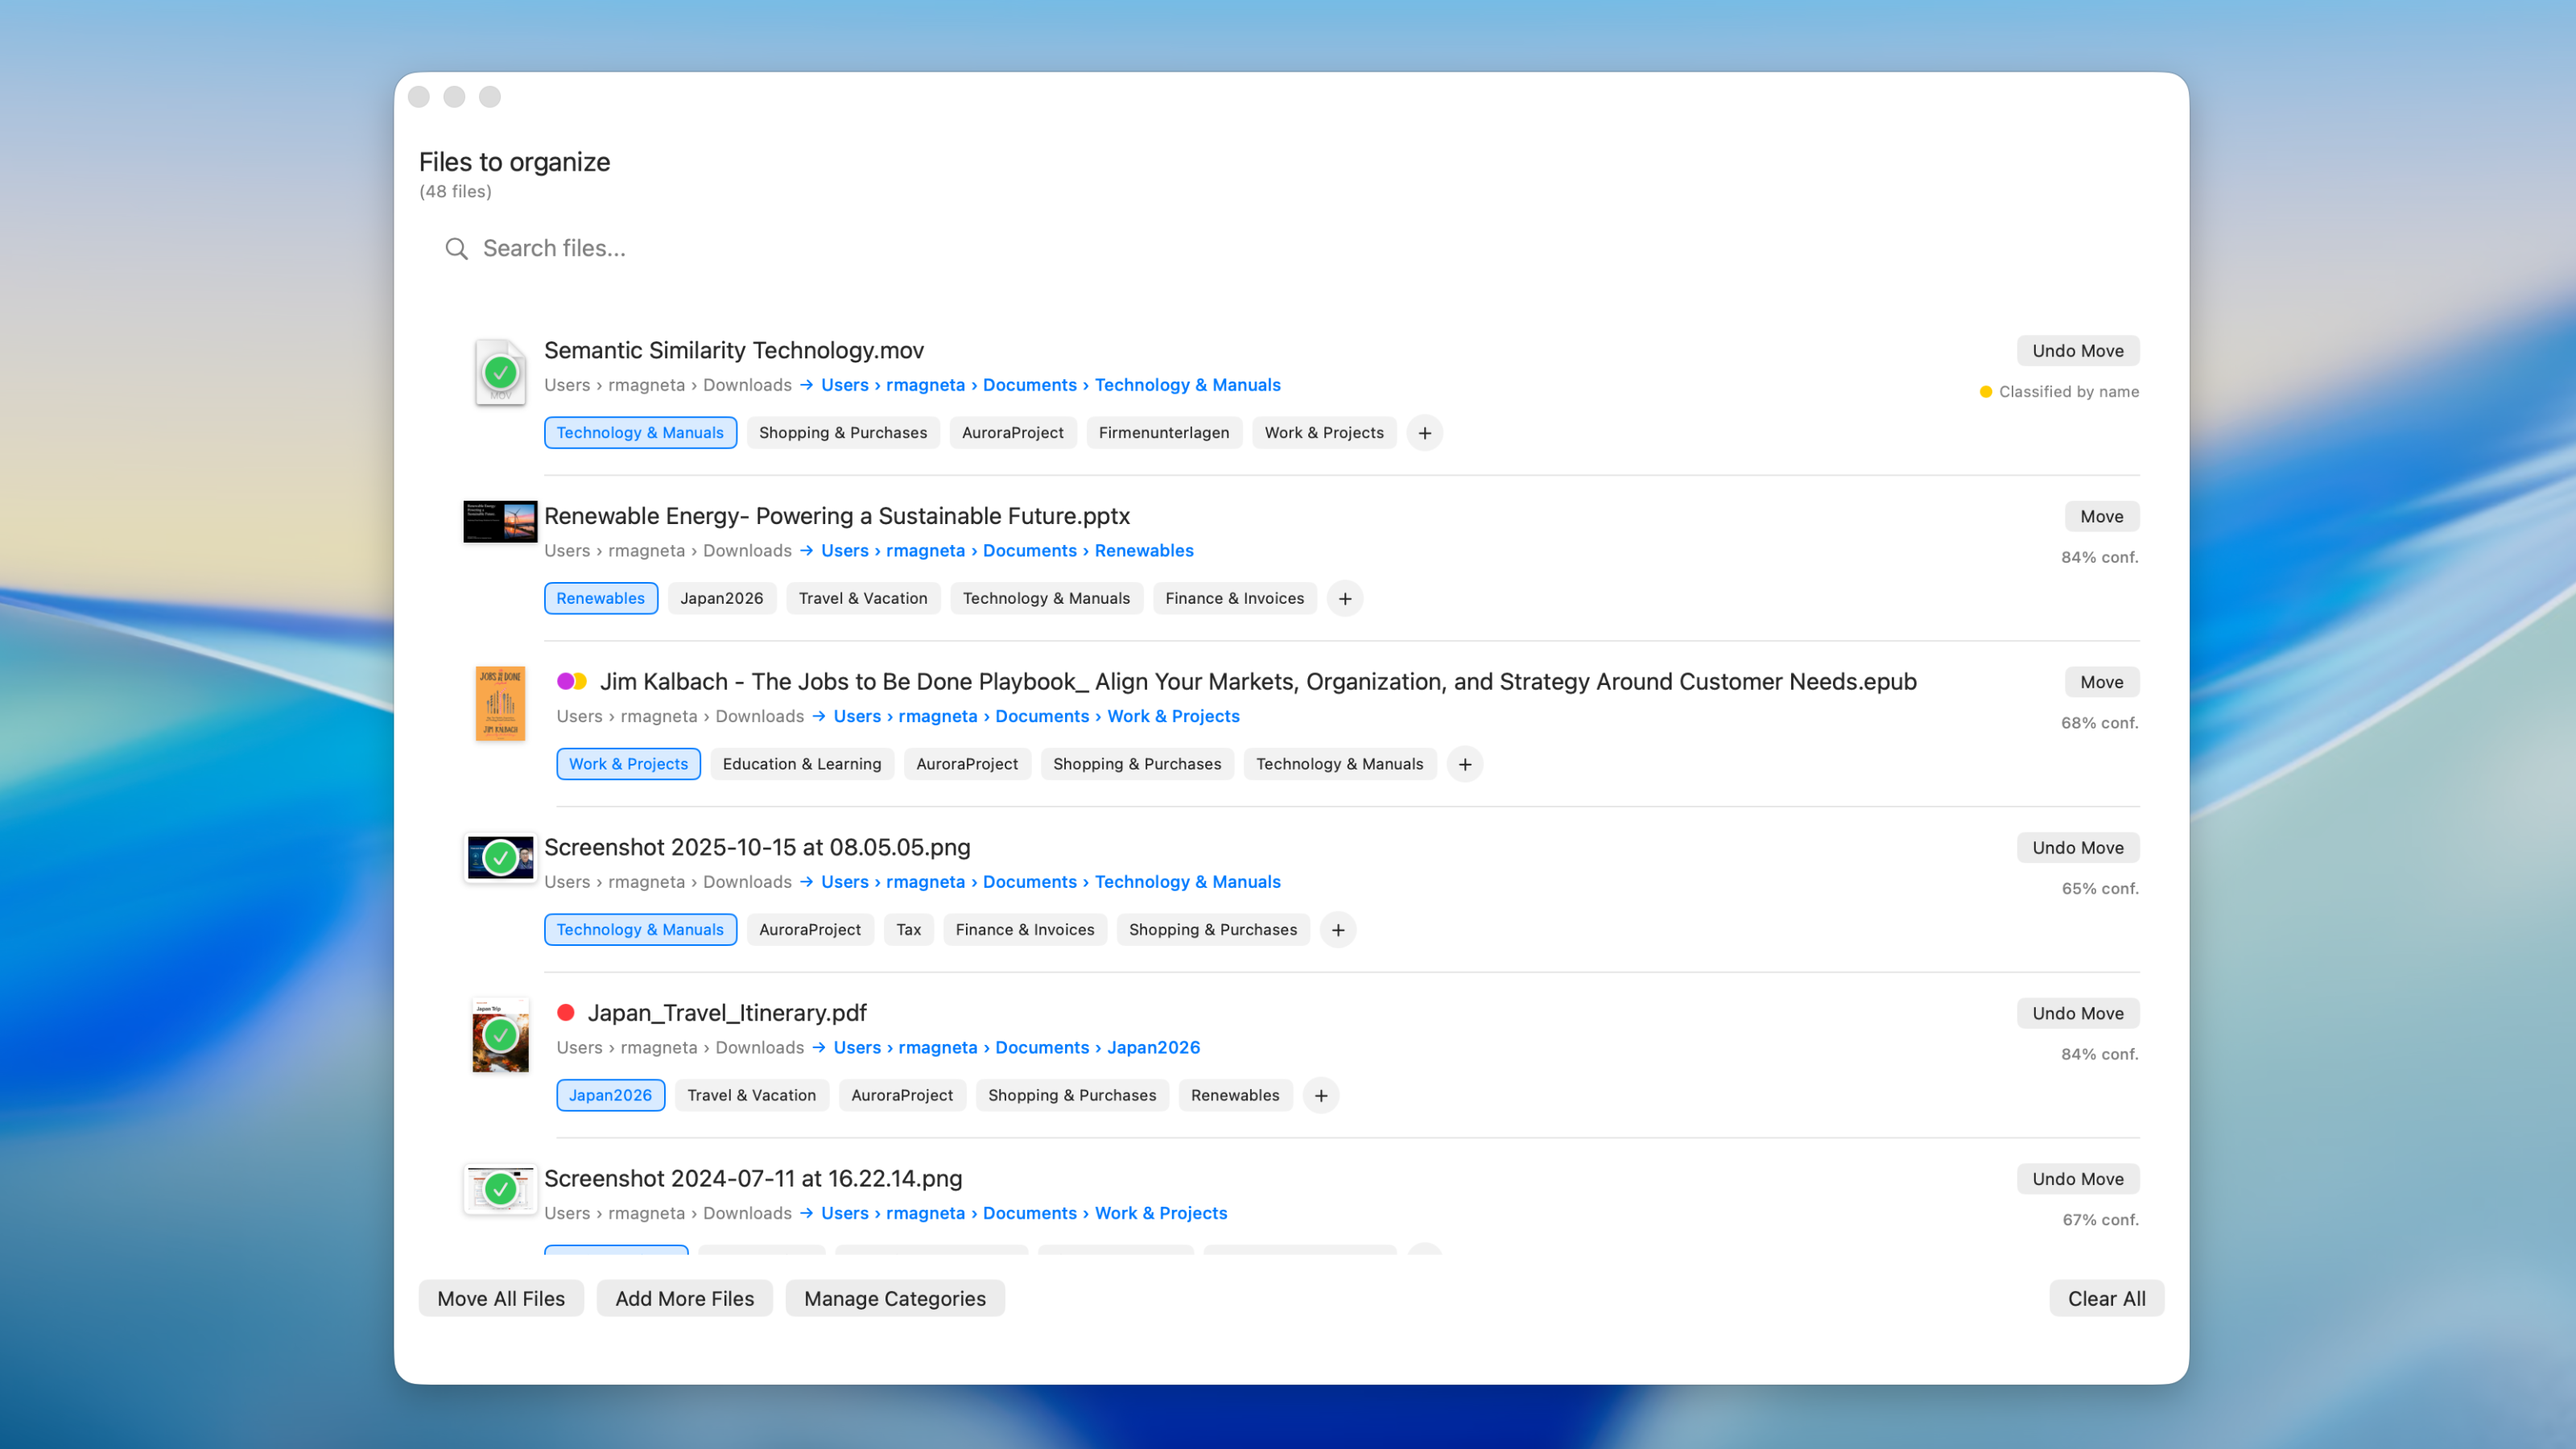
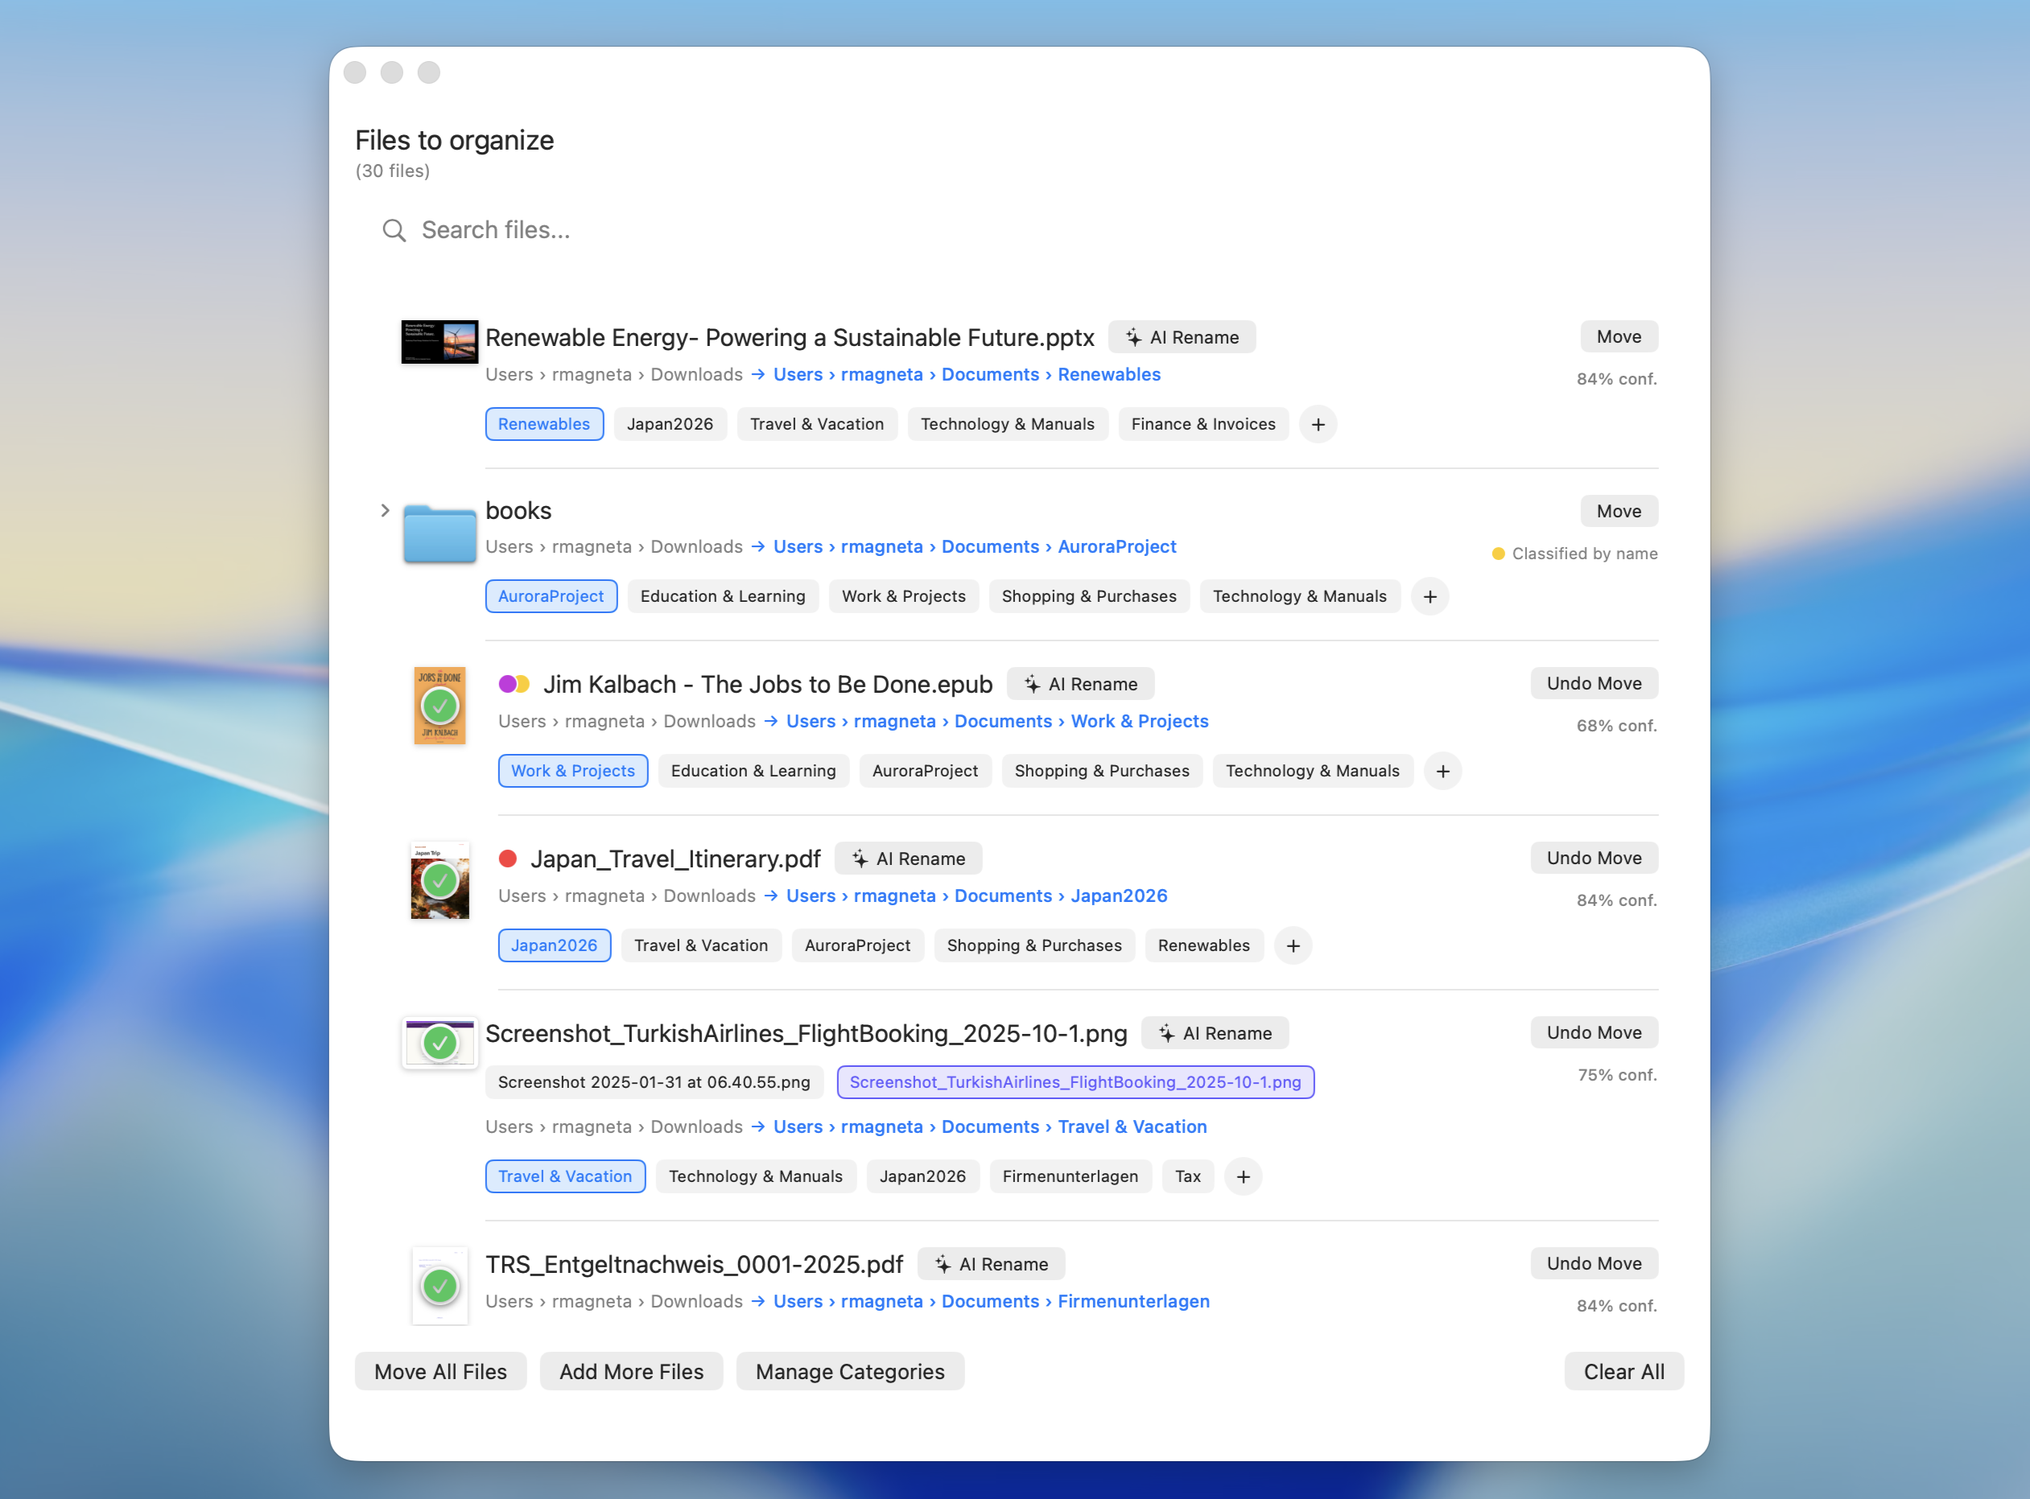
Update hero screenshot image, FAQ and refined AI Rename feature

Changed region(s): [[0.0, 0.0311, 1.0, 1.0], [0.6186, 0.3733, 0.6804, 0.4044], [0.5876, 0.6222, 0.6186, 0.6533]]

diff --git a/docs/index.html b/docs/index.html
@@ -97,7 +97,7 @@
         }
     ],
 
-    "description": "AI-powered file organizer and renaming tool for Mac. Automatically organizes files and suggests intelligent filenames using Apple Intelligence. Works with files and folders in over 50 languages, including Spanish, French, German, and Japanese. Supports iCloud Drive, Google Drive, OneDrive, and Dropbox. Fully offline and privacy-focused."
+    "description": "AI-powered file organizer and renaming tool for Mac. Automatically organizes files and suggests intelligent filenames using local AI. Works with files and folders in over 50 languages, including Spanish, French, German, and Japanese. Supports iCloud Drive, Google Drive, OneDrive, and Dropbox. Fully offline and privacy-focused."
     }
     </script>
 
@@ -114,6 +114,14 @@
           "acceptedAnswer": {
             "@type": "Answer",
             "text": "Floxtop uses an AI model to understand your file content locally on your Mac. It then classifies, suggests and sorts files into meaningful folders based on available categories and their content."
+          }
+        },
+        {
+          "@type": "Question",
+          "name": "How does smart file renaming work?",
+          "acceptedAnswer": {
+            "@type": "Answer",
+            "text": "Smart file renaming uses advanced on-device AI to analyze your file's content and suggest clear, descriptive filenames. For example, it can turn 'Untitle.pdf' into 'Aurora_Q4-2026_Sales_Report.pdf' or 'Screenshot 2026-01-31.png' into 'TravelTickets_PurchaseConfirmation_2026-01-31.png'. Requirements: macOS 26.0 (Tahoe) or later with Apple Intelligence enabled in System Settings → Apple Intelligence & Siri. Everything runs entirely on your Mac—no data is ever sent to external servers. If your Mac doesn't meet these requirements, you can still use all other Floxtop features normally."
           }
         },
         {
@@ -141,22 +149,14 @@
           }
         },
         {
-            "@type": "Question",
-            "name": "What file types does Floxtop support?",
-            "acceptedAnswer": {
-                "@type": "Answer",
-                "text": "Floxtop supports 30+ file types including Documents (TXT, PDF, DOC, DOCX, MD, RTF, HTML, EPUB), Spreadsheets (CSV, XLSX, XLSM), Presentations (PPTX, PPTM), Data files (JSON, XML, YAML), Images (PNG, JPG, HEIC, TIFF, WEBP), and Archives (ZIP). All processing happens locally on your Mac with OCR support for images."
-            }
+          "@type": "Question",
+          "name": "What file types and languages are supported?",
+          "acceptedAnswer": {
+            "@type": "Answer",
+            "text": "File Types: Floxtop works with all file types. Supported formats are classified by content analysis, while other files are classified by filename. Content-analyzed formats (30+): Documents (TXT, PDF, MD, RTF, HTML, EPUB, DOC, DOCX), Spreadsheets (CSV, TSV, XLSX, XLSM, XLTX, XLTM), Presentations (PPTX, PPTM, POTX, POTM), Data & Config (JSON, XML, YAML, TOML, INI, CONF, LOG), Images (PNG, JPG, JPEG, HEIC, HEIF, TIFF, TIF, BMP, WEBP), Archives (ZIP). All other file types are classified based on their filename. All processing happens locally on your Mac with OCR support for images. Languages: Floxtop supports 50 languages including English, Spanish, French, German, Italian, Portuguese, Dutch, Swedish, Norwegian, Danish, Finnish, Polish, Czech, Romanian, Hungarian, Croatian, Bulgarian, Serbian, Slovak, Slovenian, Greek, Russian, Ukrainian, Turkish, Estonian, Latvian, Lithuanian, Macedonian, Albanian, Catalan, Galician, Japanese, Korean, Vietnamese, Thai, Indonesian, Malay, Burmese, Mongolian, Arabic, Hebrew, Persian, Urdu, Hindi, Gujarati, Marathi, Georgian, Armenian, and Kurdish. Download the multilingual model in Settings to enable support for all languages."
+          }
         },
         {
-            "@type": "Question",
-            "name": "What languages does Floxtop support?",
-            "acceptedAnswer": {
-                "@type": "Answer",
-                "text": "Floxtop supports 50 languages including English, Spanish, French, German, Italian, Portuguese, Japanese, Hindi, Arabic and many more. You can create categories in any language and mix multiple languages in the same category. Download the multilingual model in Settings to enable all languages."
-            }
-        },
-       {
           "@type": "Question",
           "name": "Can I choose where files are organized?",
           "acceptedAnswer": {
@@ -194,6 +194,14 @@
           "acceptedAnswer": {
             "@type": "Answer",
             "text": "Yes! Floxtop Pro includes all updates: bug fixes, performance improvements, and feature enhancements—at no extra cost. Major upgrades or entirely new versions may require a new license, following the standard desktop app model. This ensures your app keeps improving while your current license remains valid."
+          }
+        },
+        {
+          "@type": "Question",
+          "name": "How many Macs can I use with one license?",
+          "acceptedAnswer": {
+            "@type": "Answer",
+            "text": "Each license covers one Mac, not one user. So if you want Floxtop on 3 different Macs, you'll need 3 licenses. We offer multi-license packs with significant discounts. The number of licenses can be selected directly from the pricing section."
           }
         },
         {
@@ -418,7 +426,7 @@
                     <div class="feature-card d-flex align-items-start">
                         <div class="feature-card-content">
                             <h3 class="type-s fw-bold mb-3 feature-card-green-text">Smart File Renaming</h3>
-                            <p class="type-s feature-card-green-text">Transform cryptic filenames like "IMG_1234.jpg" or "Screenshot 2026-01-31.png" into descriptive names based on actual content—like "Travel Tickets 31-01-2026.jpg" or "Q4 Sales Report.png". Runs entirely on your Mac using advanced on-device AI.<br/>Private, secure, offline.<br/><br/><small class="text-muted">Requires macOS 26.0+ with system AI features enabled.</small></p>
+                            <p class="type-s feature-card-green-text">Transform cryptic filenames like "IMG_1234.jpg" or "Screenshot 2026-01-31.png" into descriptive names based on actual content—like "Untitle.pdf" to "Aurora_Q4-2026_Sales_Report.pdf" or "Screenshot 2026-01-31.png" to "TravelTickets_PurchaseConfirmation_2026-01-31.png". Runs entirely on your Mac using advanced on-device AI.<br/>Private, secure, offline.<br/><br/><small class="text-muted">Requires macOS 26.0+ with system AI features enabled.</small></p>
                         </div>
                     </div>
                 </div>
@@ -723,6 +731,25 @@
                         </div>
                         
                         <div class="accordion-item">
+                            <h2 class="accordion-header" id="headingAIRename">
+                                <button class="accordion-button type-xs collapsed" type="button" data-bs-toggle="collapse" data-bs-target="#collapseAIRename" aria-expanded="false" aria-controls="collapseAIRename">
+                                   How does smart file renaming work?
+                                </button>
+                            </h2>
+                            <div id="collapseAIRename" class="accordion-collapse collapse" aria-labelledby="headingAIRename" data-bs-parent="#accordionFAQ">
+                                <div class="accordion-body type-xs">
+                                    Smart file renaming uses advanced on-device AI to analyze your file's content and suggest clear, descriptive filenames. For example, it can turn "Untitle.pdf" into "Aurora_Q4-2026_Sales_Report.pdf" or "Screenshot 2026-01-31.png" into "TravelTickets_PurchaseConfirmation_2026-01-31.png".<br/><br/>
+                                    
+                                    <strong>Requirements:</strong><br/>
+                                    • macOS 26.0 (Tahoe) or later<br/>
+                                    • Apple Intelligence enabled in System Settings → Apple Intelligence & Siri<br/><br/>
+                                    
+                                    Everything runs entirely on your Mac—no data is ever sent to external servers. If your Mac doesn't meet these requirements, you can still use all other Floxtop features normally.
+                                </div>
+                            </div>
+                        </div>
+
+                        <div class="accordion-item">
                             <h2 class="accordion-header" id="headingTwo">
                                 <button class="accordion-button type-xs collapsed" type="button" data-bs-toggle="collapse" data-bs-target="#collapseTwo" aria-expanded="false" aria-controls="collapseTwo">
                                     Is my data private and secure?
@@ -869,25 +896,6 @@
                             <div id="collapseLicense" class="accordion-collapse collapse" aria-labelledby="headingLicense" data-bs-parent="#accordionFAQ">
                                 <div class="accordion-body type-xs">
                                     Each license covers one Mac, not one user. So if you want Floxtop on 3 different Macs, you'll need 3 licenses. We offer multi-license packs with significant discounts. The number of licenses can be selected directly from the <a href="#pricing" class="text-dark">pricing section</a>.
-                                </div>
-                            </div>
-                        </div>
-
-                        <div class="accordion-item">
-                            <h2 class="accordion-header" id="headingAIRename">
-                                <button class="accordion-button type-xs collapsed" type="button" data-bs-toggle="collapse" data-bs-target="#collapseAIRename" aria-expanded="false" aria-controls="collapseAIRename">
-                                   How does smart file renaming work?
-                                </button>
-                            </h2>
-                            <div id="collapseAIRename" class="accordion-collapse collapse" aria-labelledby="headingAIRename" data-bs-parent="#accordionFAQ">
-                                <div class="accordion-body type-xs">
-                                    Smart file renaming uses advanced on-device AI to analyze your file's content and suggest clear, descriptive filenames. For example, it can turn "IMG_5847.jpg" into "Golden Gate Bridge Sunset.jpg" or "Screenshot 2026-01-18.png" into "Q4 Sales Report.png".<br/><br/>
-                                    
-                                    <strong>Requirements:</strong><br/>
-                                    • macOS 26.0 (Tahoe) or later<br/>
-                                    • Apple Intelligence enabled in System Settings → Apple Intelligence & Siri<br/><br/>
-                                    
-                                    Everything runs entirely on your Mac—no data is ever sent to external servers. If your Mac doesn't meet these requirements, you can still use all other Floxtop features normally.
                                 </div>
                             </div>
                         </div>
